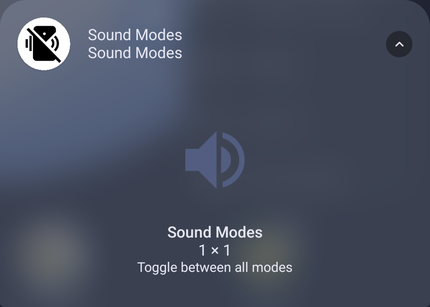
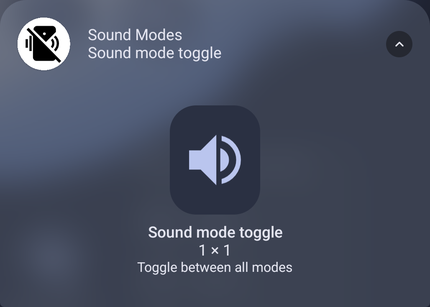
Update README widget screenshots for 2.0.3
New widget look (rounded background) and widget name in the picker,
plus short notes about the "Tile added" button state and the widget
following mode changes made outside the app.

Claude-Session: https://claude.ai/code/session_01E54nKnfFbj2TpfwEyg9D8b

diff --git a/README.md b/README.md
@@ -19,8 +19,8 @@ This project was inspired by the [Sound-Toggle](https://github.com/grmasa/Sound-
   ![Normal mode tile](img/normal.png)<br>
   ![Vibrate mode tile](img/vibrate.png)<br>
   ![Silent mode tile](img/silent.png)
-- **One-tap tile setup:** Add the tile to Quick Settings straight from the app with the **Add tile** button, without editing the Quick Settings panel.
-- **Home screen widget:** A 1×1 resizable widget built with Jetpack Glance. One tap switches to the next mode, and the icon uses the Material You colors of your wallpaper.
+- **One-tap tile setup:** Add the tile to Quick Settings straight from the app with the **Add tile** button, without editing the Quick Settings panel. Once the tile is added, the button shows **Tile added**.
+- **Home screen widget:** A 1×1 resizable widget built with Jetpack Glance. One tap switches to the next mode. It shows the current mode, also after a change with the volume buttons or the tile, and uses the Material You colors of your wallpaper.
 
   ![Widget in Normal, Vibrate and Silent mode](img/widget_modes.png)
 
